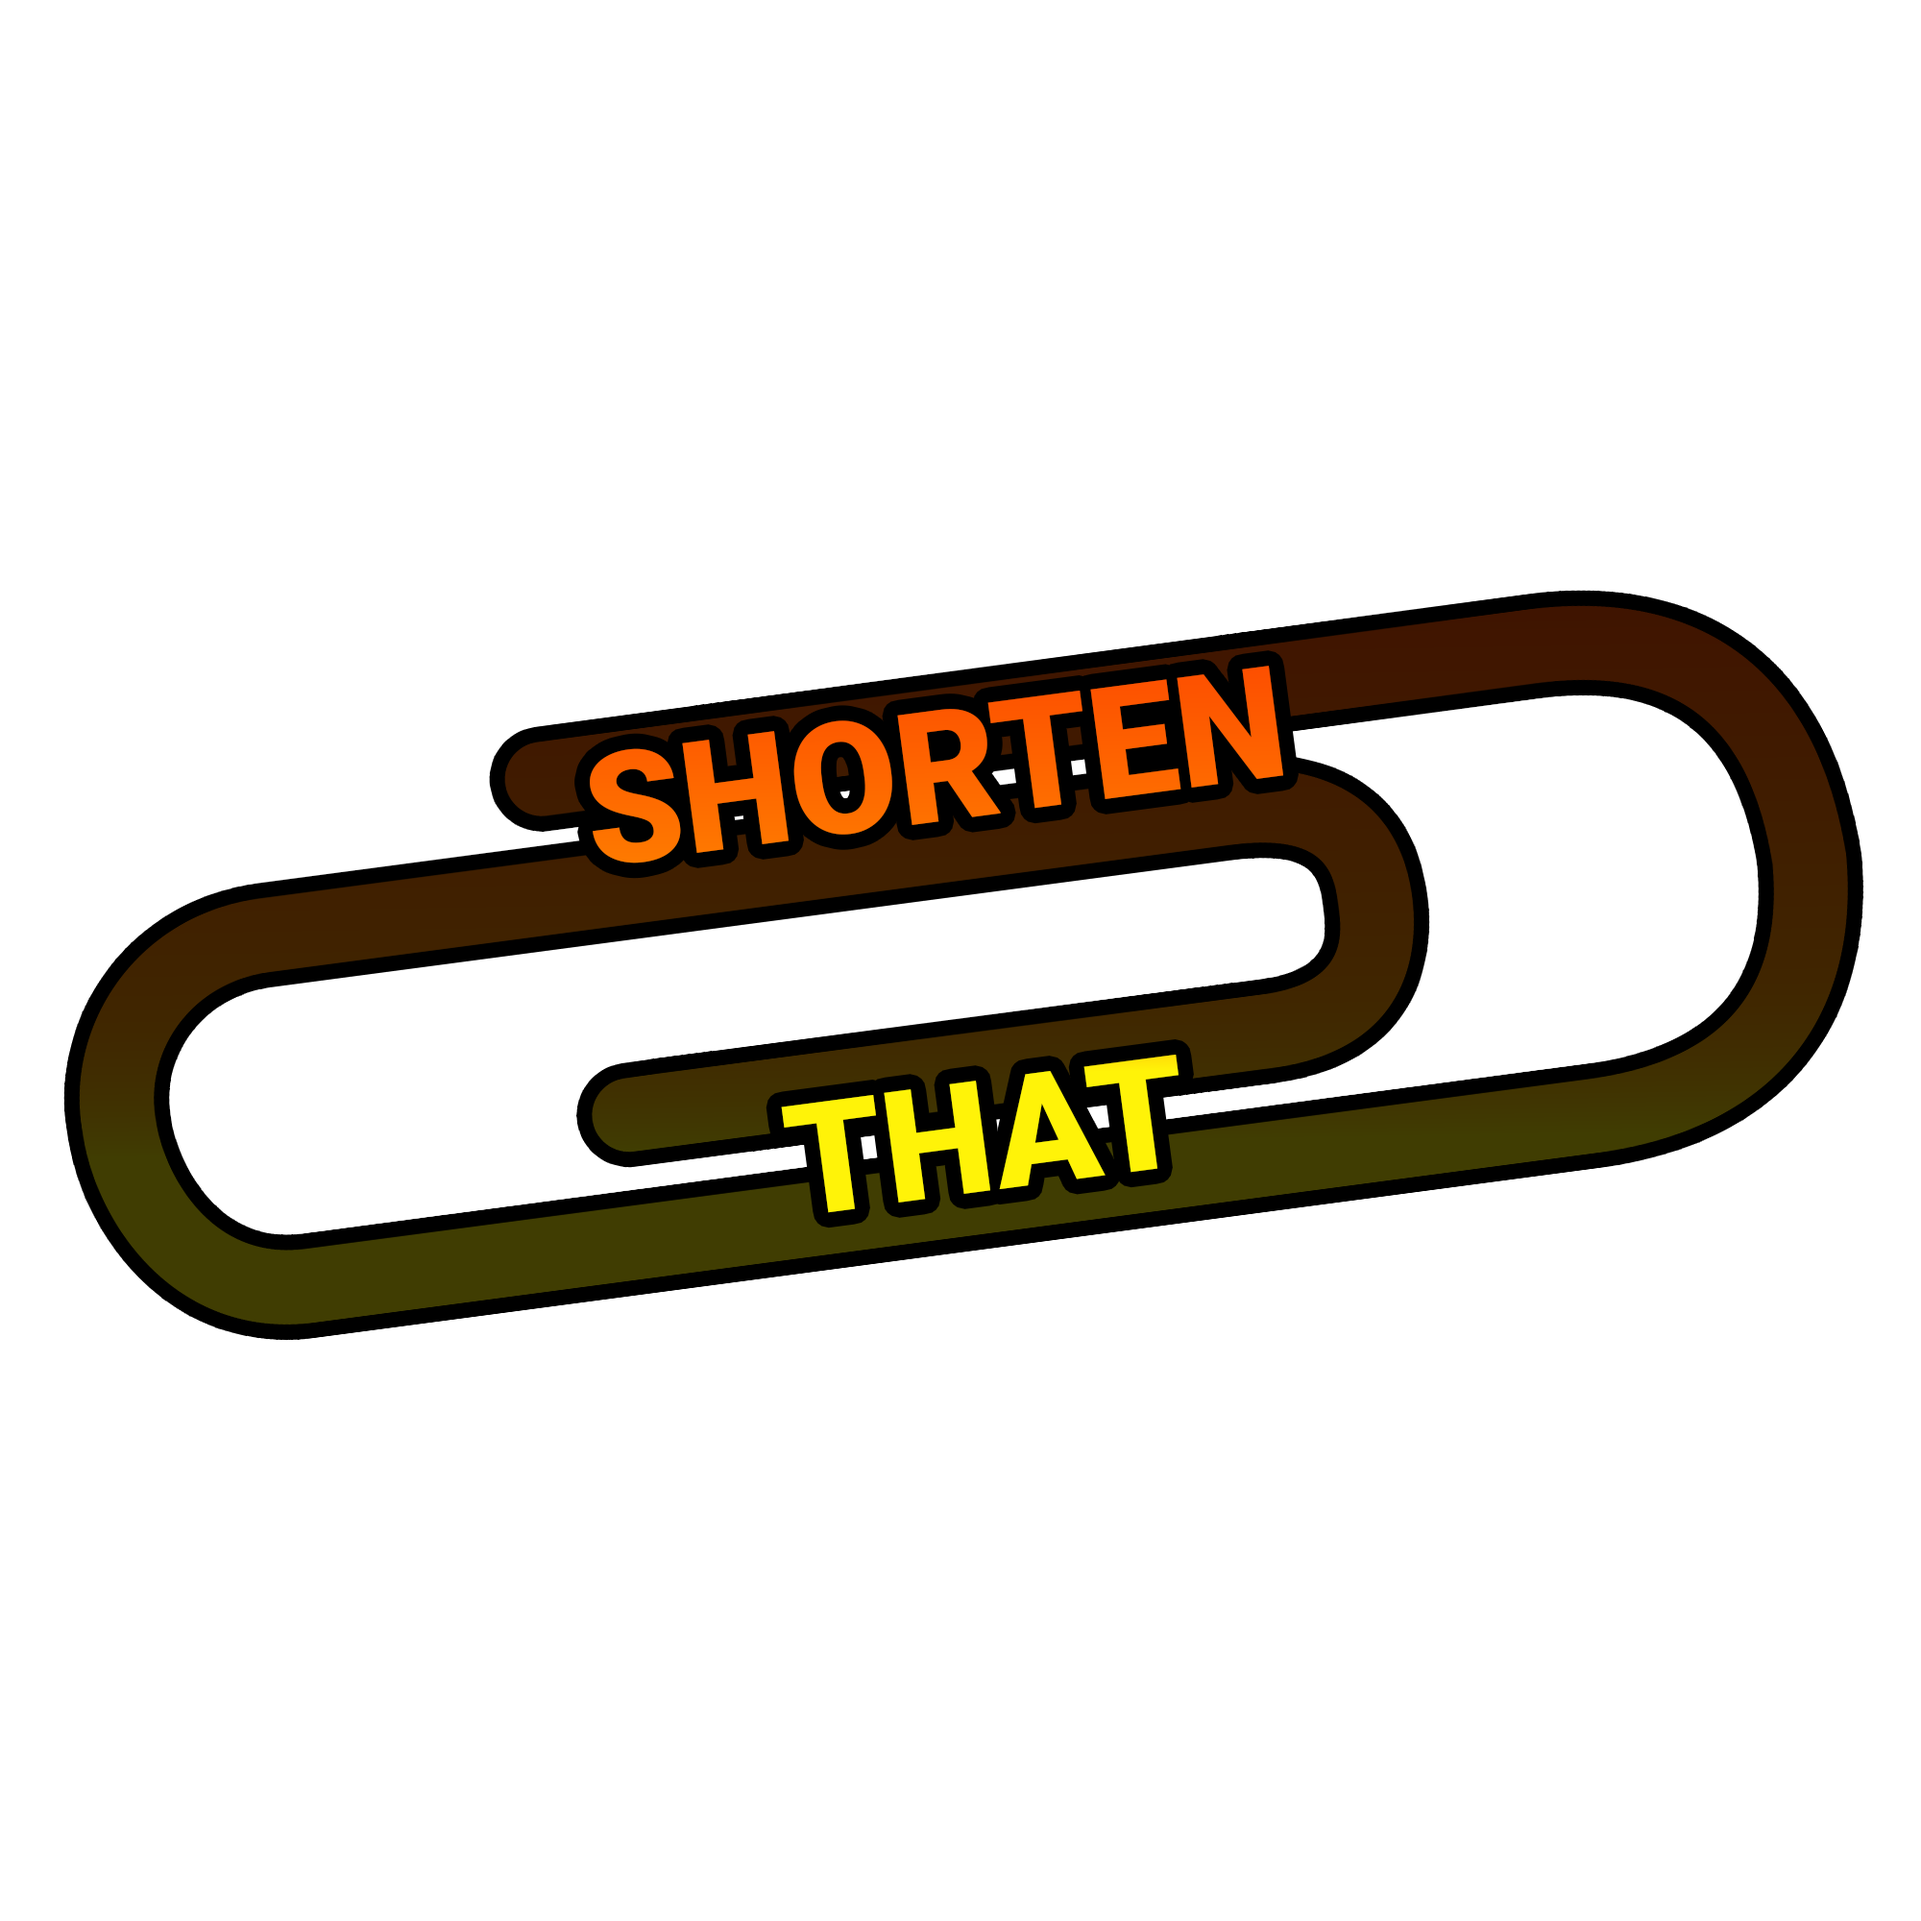
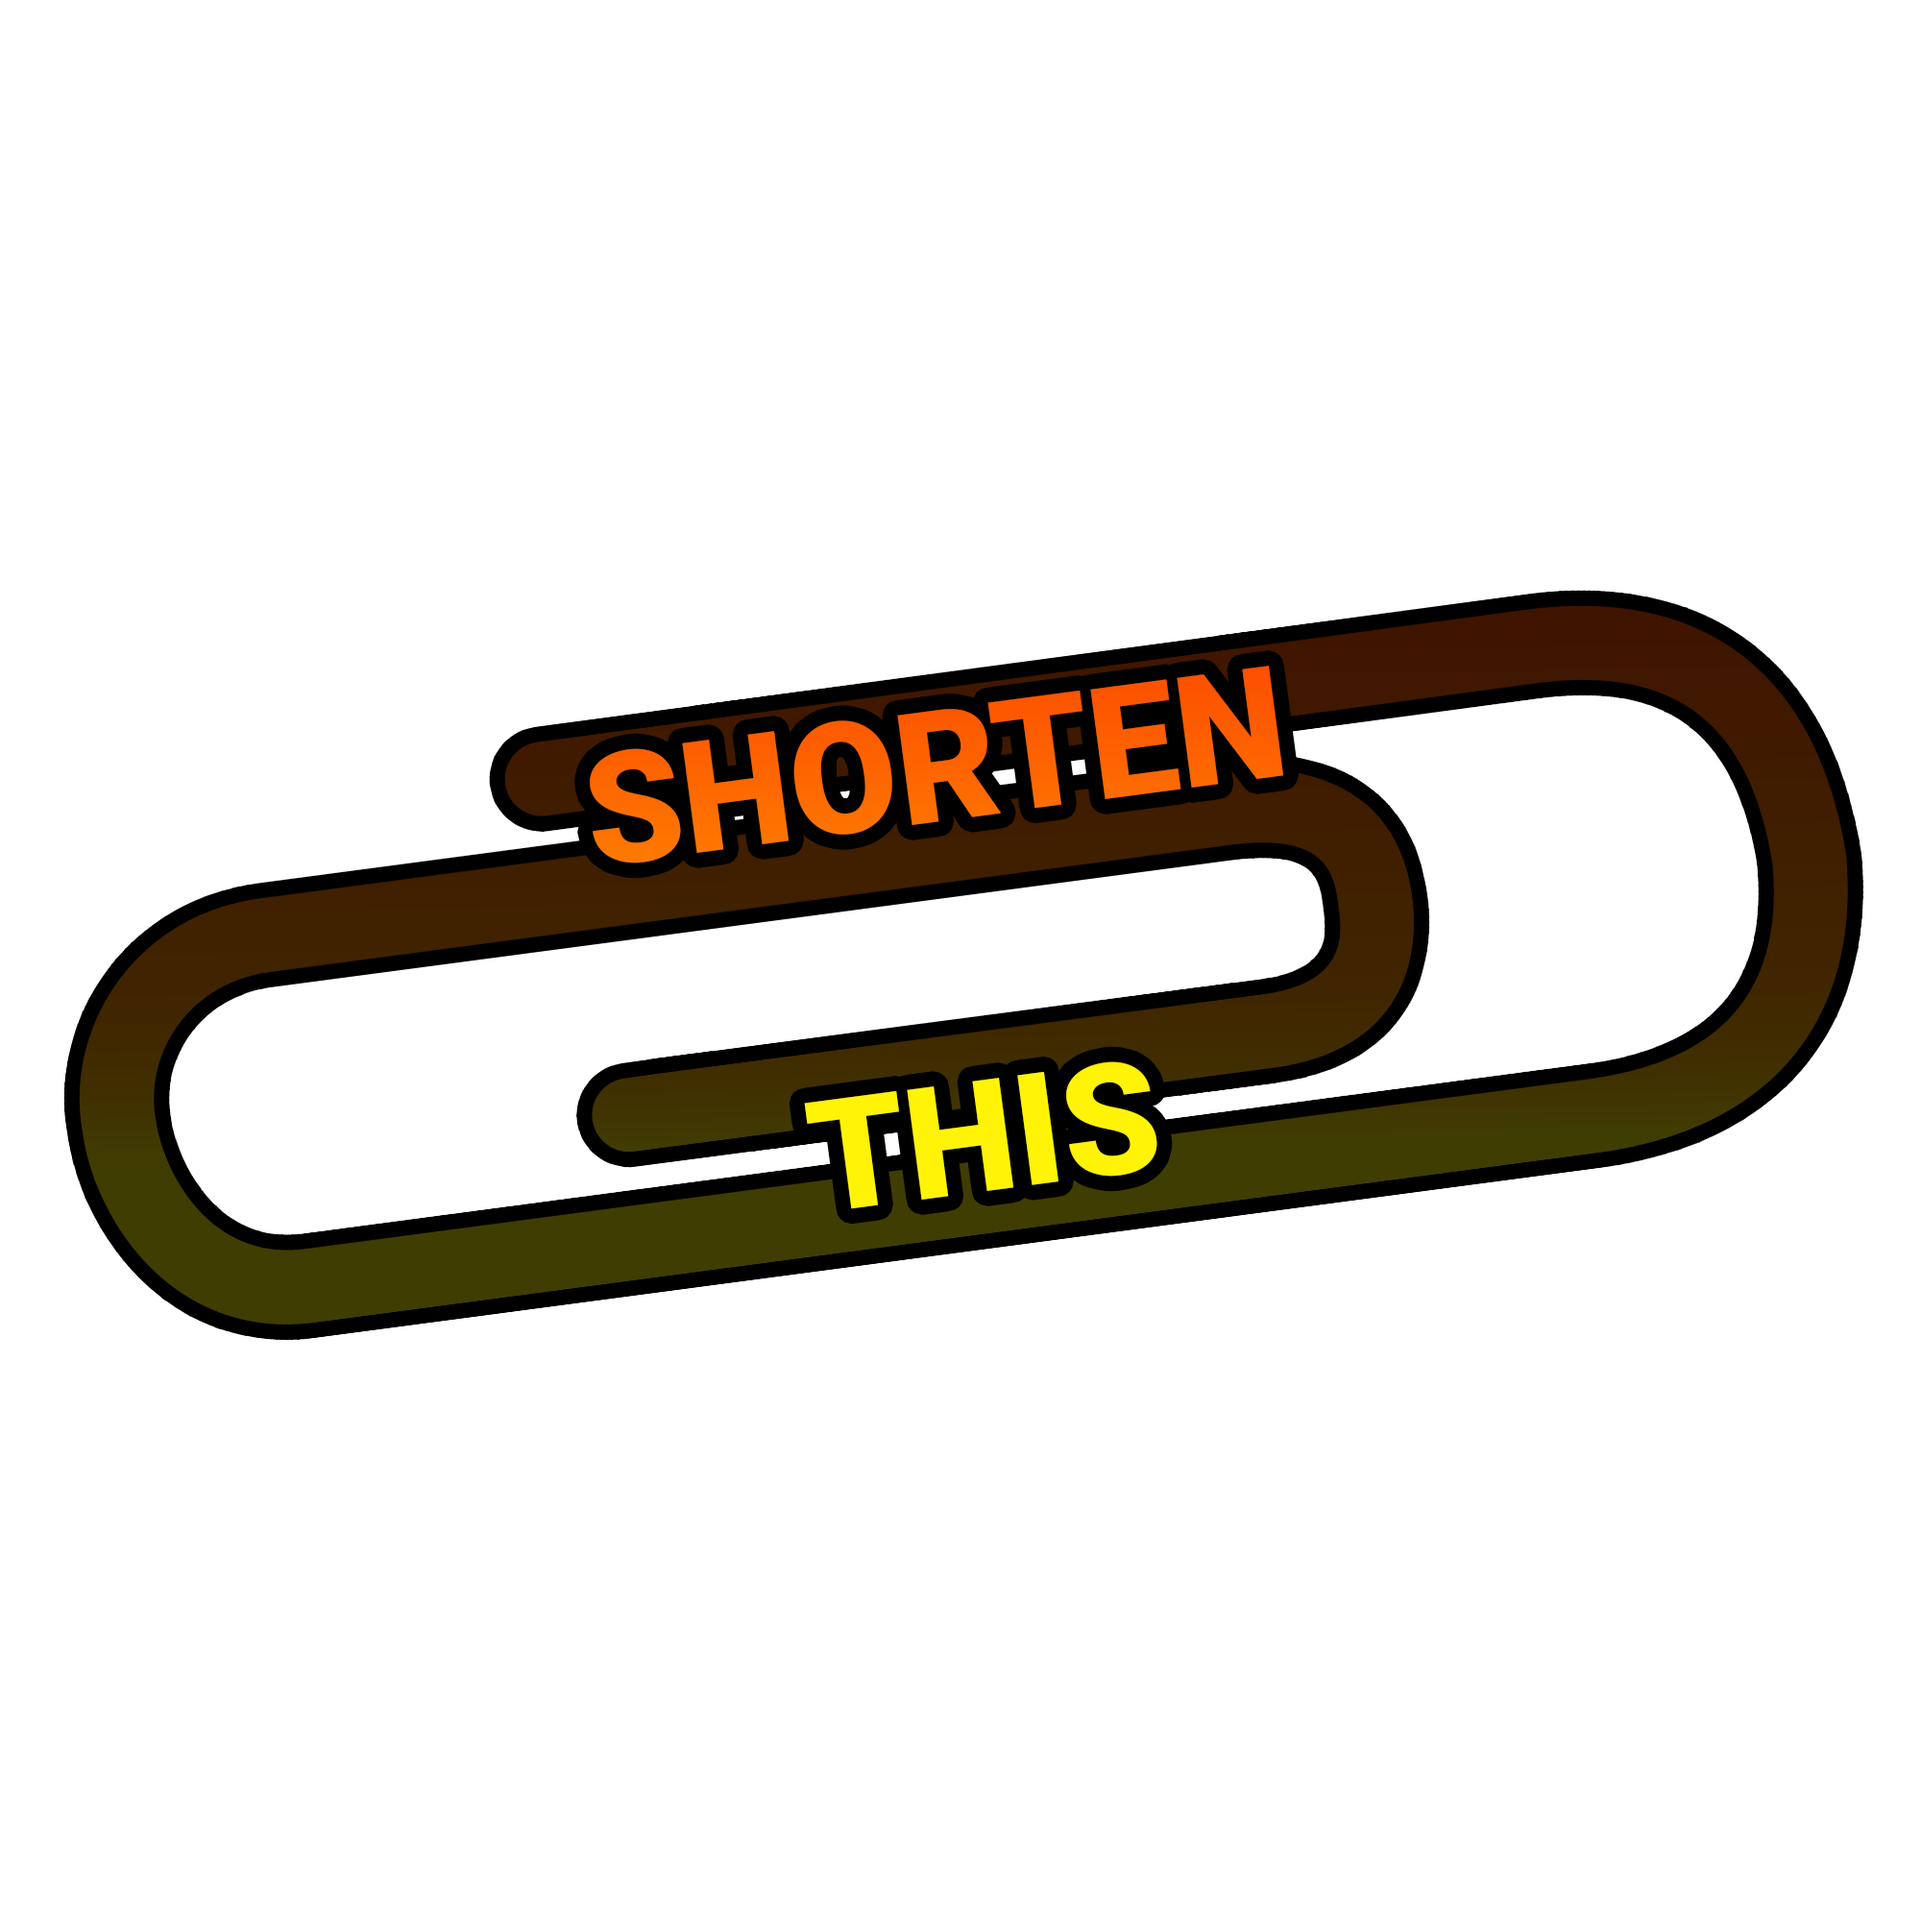
Change repository name from "Shorten That" to "Shorten This"

Changed region(s): [[0.403, 0.527, 0.62, 0.651]]

diff --git a/templates/index.html b/templates/index.html
@@ -3,21 +3,21 @@
 <head>
     <meta charset="UTF-8">
     <meta name="viewport" content="width=device-width, initial-scale=1.0">
-    <title>Shorten That</title>
+    <title>Shorten This</title>
     <link rel="stylesheet" href="{{ url_for('static', filename='css/index-styles.css') }}">
     <link rel="stylesheet" href="https://fonts.googleapis.com/css2?family=Roboto:wght@400;700&display=swap">
     <link rel="icon" type="image/x-icon" href="{{ url_for('static', filename='favicon.png') }}">
 </head>
 <body>
     <div class="container">
-        <h1>Shorten That</h1>
+        <h1>Shorten This</h1>
         {% if not disable_authentication %}
         <button><a href="/login">Login</a></button>
         {% endif %}
         {% if disable_authentication %}
         <button><a href="/shorten-url">Shorten URL</a></button>
         {% endif %}
-        <a href="https://github.com/jedrzejme/ShortenThat" target="_blank" style="font-style: italic;"><div class="footer">Show GitHub project</div></a>
+        <a href="https://github.com/jedrzejme/ShortenThis" target="_blank" style="font-style: italic;"><div class="footer">Show GitHub project</div></a>
     </div>
 </body>
 </html>

diff --git a/README.md b/README.md
@@ -6,22 +6,22 @@
         alt = 'Icon' 
     />
     <br>
-    Shorten That
+    Shorten This
     <br>
 </h1>
 
 <div align = 'center'>
-    <a href = 'https://github.com/jedrzejme/ShortenThat/'>
-        <img src = 'https://img.shields.io/github/stars/jedrzejme/ShortenThat?style=for-the-badge&color=%23cfb002'/>
+    <a href = 'https://github.com/jedrzejme/ShortenThis/'>
+        <img src = 'https://img.shields.io/github/stars/jedrzejme/ShortenThis?style=for-the-badge&color=%23cfb002'/>
     </a>
-    <a href = 'https://github.com/jedrzejme/ShortenThat/tags'>
-        <img src = 'https://img.shields.io/github/v/tag/jedrzejme/ShortenThat?style=for-the-badge&label=version'/>
+    <a href = 'https://github.com/jedrzejme/ShortenThis/tags'>
+        <img src = 'https://img.shields.io/github/v/tag/jedrzejme/ShortenThis?style=for-the-badge&label=version'/>
     </a>
-    <a href = 'https://github.com/jedrzejme/ShortenThat/issues'>
-        <img src = 'https://img.shields.io/github/issues/jedrzejme/ShortenThat?style=for-the-badge&color=%23ff6f00'/>
+    <a href = 'https://github.com/jedrzejme/ShortenThis/issues'>
+        <img src = 'https://img.shields.io/github/issues/jedrzejme/ShortenThis?style=for-the-badge&color=%23ff6f00'/>
     </a>
-    <a href = 'https://github.com/jedrzejme/ShortenThat/pulls'>
-        <img src = 'https://img.shields.io/github/issues-pr/jedrzejme/ShortenThat?style=for-the-badge'/>
+    <a href = 'https://github.com/jedrzejme/ShortenThis/pulls'>
+        <img src = 'https://img.shields.io/github/issues-pr/jedrzejme/ShortenThis?style=for-the-badge'/>
     </a>
 </div>
 
@@ -45,7 +45,7 @@
 1) Install Docker, docker-compose and Git
 2) Clone this repository and enter its directory:
 ```
-git clone https://github.com/jedrzejme/ShortenThat.git
+git clone https://github.com/jedrzejme/ShortenThis.git
 ```
 3) Create docker image:
 ```
@@ -62,7 +62,7 @@ docker-compose up -d
 1) Install Python
 2) Clone this repository and enter its directory:
 ```
-git clone https://github.com/jedrzejme/ShortenThat.git
+git clone https://github.com/jedrzejme/ShortenThis.git
 ```
 3) Install requirements.txt:
 ```
